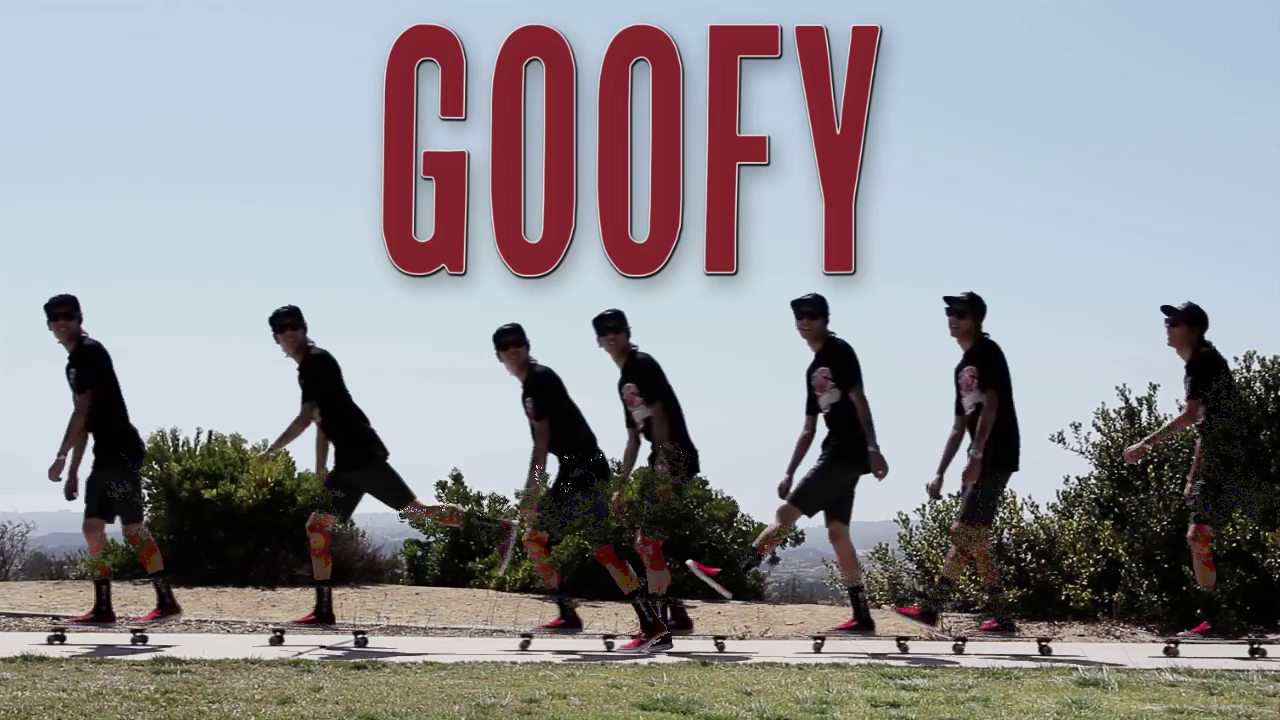
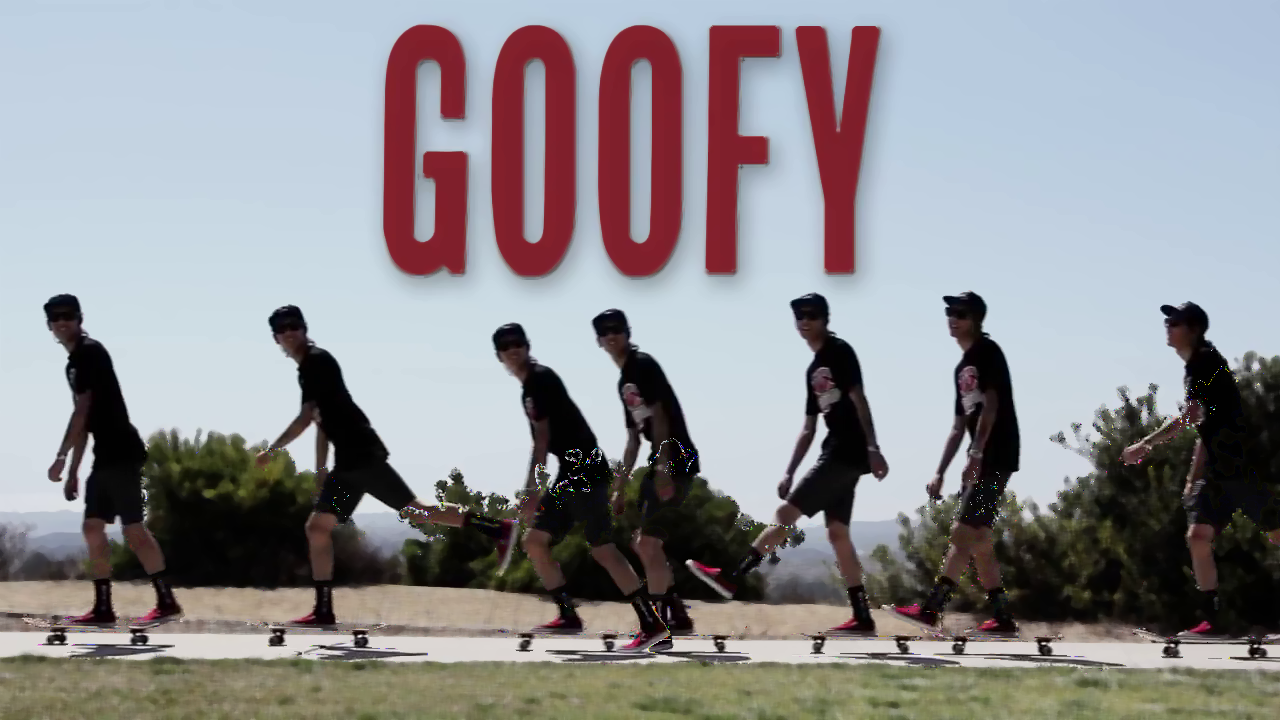
merge

diff --git a/Composition-images/Composition-images/corona.cpp b/Composition-images/Composition-images/corona.cpp
@@ -257,6 +257,7 @@ Pixels** median_images(std::list<Pixels**> images, int width, int height) {
 /// <returns>Retourne le masque</returns>
 Pixels** CreationMasque(Pixels** Fond, Pixels** Image, int width, int height) {
 	Pixels** tabFinal = init(width, height);
+	Image = filtre_median(Image, width, height, 3);
 	for (int i = 0; i < height; i++) {
 		for (int j = 0; j < width; j++) {
 			tabFinal[i][j].red = std::abs(Fond[i][j].red - Image[i][j].red);
@@ -354,40 +355,6 @@ Pixels** FlouGaussien(Pixels** img,int width, int height) {
 }
 int main(int argc, char* argv[])
 {	
-	//corona::Image* img = corona::OpenImage("../Photos/test.jpg", corona::PF_R8G8B8A8);
-	//int width = img->getWidth(); //Largeur
-	//int height = img->getHeight(); //Hauteur
-
-	//Pixels** filtreMedian = filtre_median(ImageToPixels(img), width, height, 2);
-	//corona::Image* imageFiltreMedian = corona::CreateImage(width, height, corona::PF_R8G8B8A8);
-	//TabToPixels(filtreMedian, imageFiltreMedian);
-	//corona::SaveImage("../Photos/test_filtremedian.jpg", corona::FileFormat::FF_PNG, imageFiltreMedian);
-
-	//Pixels** firstTab = tabPixels.front();
-	//Pixels** Mediane = median_images(tabPixels, tabImage[0]->getWidth(), tabImage[0]->getHeight()); //Application de la médiane
-	//corona::Image* MedianeImg = corona::CreateImage(width, height, corona::PF_R8G8B8A8);
-	//TabToPixels(Mediane, MedianeImg);
-	//corona::SaveImage("../Photos/Mediane.jpg", corona::FileFormat::FF_PNG, MedianeImg);
-
-	////corona::Image* MedianeImg = corona::OpenImage("../Photos/MasqueAppliquer.jpg", corona::PF_R8G8B8A8); // Retirer le commentaire si l'image médiane est déjà créée, gain de temps
-	////Pixels** Mediane = ImageToPixels(MedianeImg);
-	//Pixels** Masque = CreationMasque(Mediane, firstTab, width, height); //Creation du masque
-	//AppliquerMasque(Mediane, firstTab, Masque, width, height); //Application du masque
-
-
-
-
-	//corona::Image* MasqueAppliquer = corona::CreateImage(width, height, corona::PF_R8G8B8A8);
-	//TabToPixels(Mediane, MasqueAppliquer);
-
-	//corona::SaveImage("../Photos/MasqueAppliquer.jpg", corona::FileFormat::FF_PNG, MasqueAppliquer);
-
-
-
-	/*Pixels** masque1 = CreationMasque(ImageToPixels(corona::OpenImage("../Photos/Mediane.jpg", corona::PF_R8G8B8A8)), ImageToPixels(corona::OpenImage("../Photos/chrono2/chrono21.png", corona::PF_R8G8B8A8)), width, height);
-	corona::Image* imageMasque1 = corona::CreateImage(width, height, corona::PF_R8G8B8A8);
-	TabToPixels(masque1, imageMasque1);
-	corona::SaveImage("../Photos/masque1.jpg", corona::FileFormat::FF_PNG, imageMasque1);*/
 	
 
 	corona::Image** tabImage = initImage(argc-1, argv); // Tableau comportant la liste d'images pass� en param�tres
@@ -406,20 +373,15 @@ int main(int argc, char* argv[])
 	corona::Image* MedianeImg = corona::OpenImage("../Photos/Mediane.jpg", corona::PF_R8G8B8A8); // Retirer le commentaire si l'image m�diane est d�j� cr��e, gain de temps
 	Pixels**  Mediane = ImageToPixels(MedianeImg);
 	//Mediane = FlouGaussien(Mediane, width, height);
-	Mediane = filtre_median(Mediane, width, height, 2);
-	firstTab = filtre_median(firstTab, width, height, 2);
+	Mediane = filtre_median(Mediane, width, height, 3);
 	Pixels** Masque = CreationMasque(Mediane, firstTab, width, height); //Creation du masque
 	corona::Image* MasqueAppliquer = corona::CreateImage(width, height, corona::PF_R8G8B8A8);
 	TabToPixels(Masque, MasqueAppliquer);
 	corona::SaveImage("../Photos/Masque1.jpg", corona::FileFormat::FF_PNG, MasqueAppliquer);
-	AppliquerMasque(Mediane, firstTab, Masque, width, height); //Application du masque
 	
 	Pixels** MedianeAndMasque = MultiMasque(Mediane, tabPixels, width, height);
-
-	MedianeAndMasque = AppliquerMasque(Mediane, firstTab, Masque, width, height);
-	MedianeAndMasque = FlouGaussien(Mediane, width, height);
 	
-	TabToPixels(Masque, MasqueAppliquer);
+	TabToPixels(MedianeAndMasque, MasqueAppliquer);
 
 	corona::SaveImage("../Photos/MasqueAppliquer.jpg", corona::FileFormat::FF_PNG, MasqueAppliquer);
 
